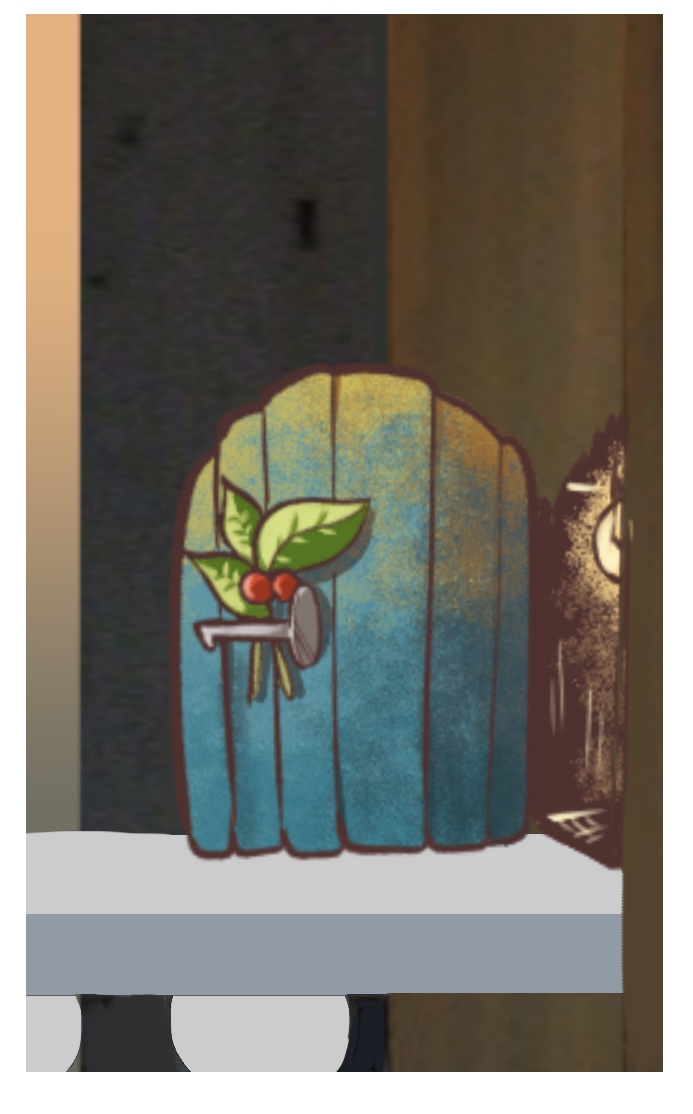
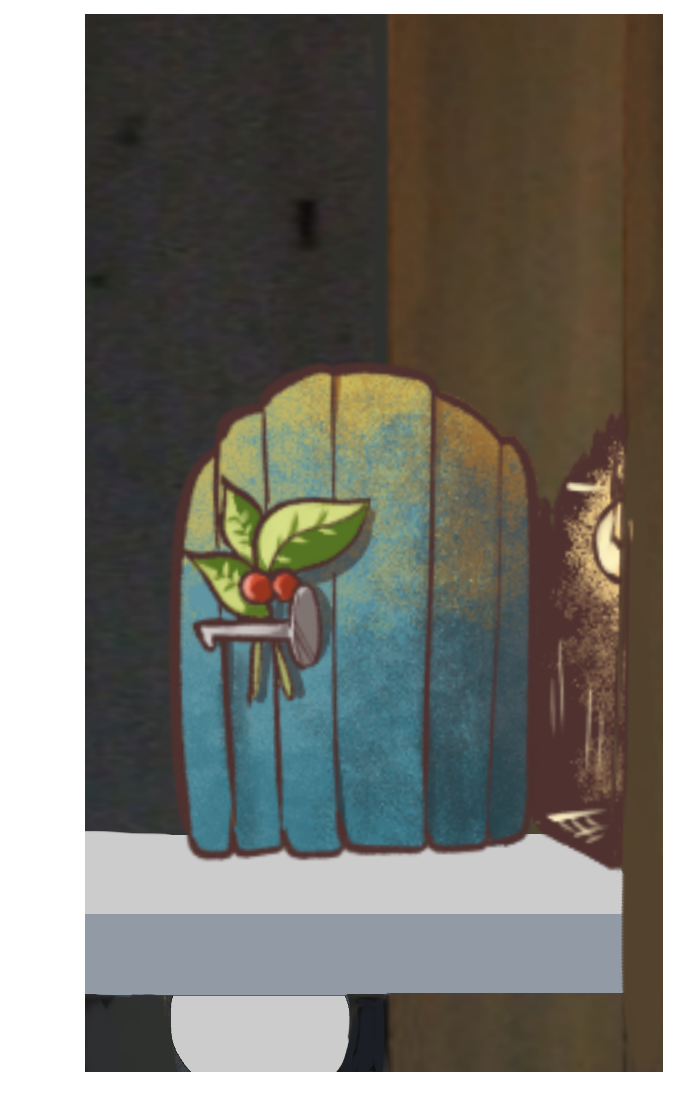
後ろいかなくした

Changed region(s): [[0.0303, 0.0, 0.1212, 0.9767]]

diff --git a/Assets/Script/MainGame/Player/PlayerMove.cs b/Assets/Script/MainGame/Player/PlayerMove.cs
@@ -12,13 +12,14 @@ public class PlayerMove : MonoBehaviour
     public Animator anim { get { return this._anim ?? (this._anim = chara.GetComponent<Animator>()); } }
     Animator _anim;
 
- 
+    Vector3 pos;//初期値
+
     //移動速度
     private Vector3 MoveDirection = new Vector3(0.1f, 0.0f, 0.0f);
 
     void Start()
     {
-
+        pos = transform.position;
     }
 
     void Update()
@@ -39,7 +40,7 @@ public class PlayerMove : MonoBehaviour
                 Player.transform.position += MoveDirection;
 
             }
-            else
+            else if(pos.x< Player.transform.position.x - MoveDirection.x)
             {
                 chara.transform.rotation = Quaternion.Euler(0.0f, 180, 0.0f);
                 Player.transform.position -= MoveDirection;

diff --git a/Assets/Script/MainGame/backGround/BackGroundMove.cs b/Assets/Script/MainGame/backGround/BackGroundMove.cs
@@ -8,12 +8,14 @@ public class BackGroundMove : MonoBehaviour
     [SerializeField]
     GameObject BackGround;
 
+    Vector3 pos;//初期値
+
     //BackGroundの移動速度
     private Vector3 BackGroundMoveDirection = new Vector3(0.095f, 0.0f, 0.0f);
     
     void Start()
     {
-  
+        pos = transform.position;
     }
 
     void Update()
@@ -27,7 +29,7 @@ public class BackGroundMove : MonoBehaviour
             {
                 BackGround.transform.position += BackGroundMoveDirection;
             }
-            else
+            else if(pos.x< BackGround.transform.position.x - BackGroundMoveDirection.x)
             {
                 BackGround.transform.position -= BackGroundMoveDirection;
             }
